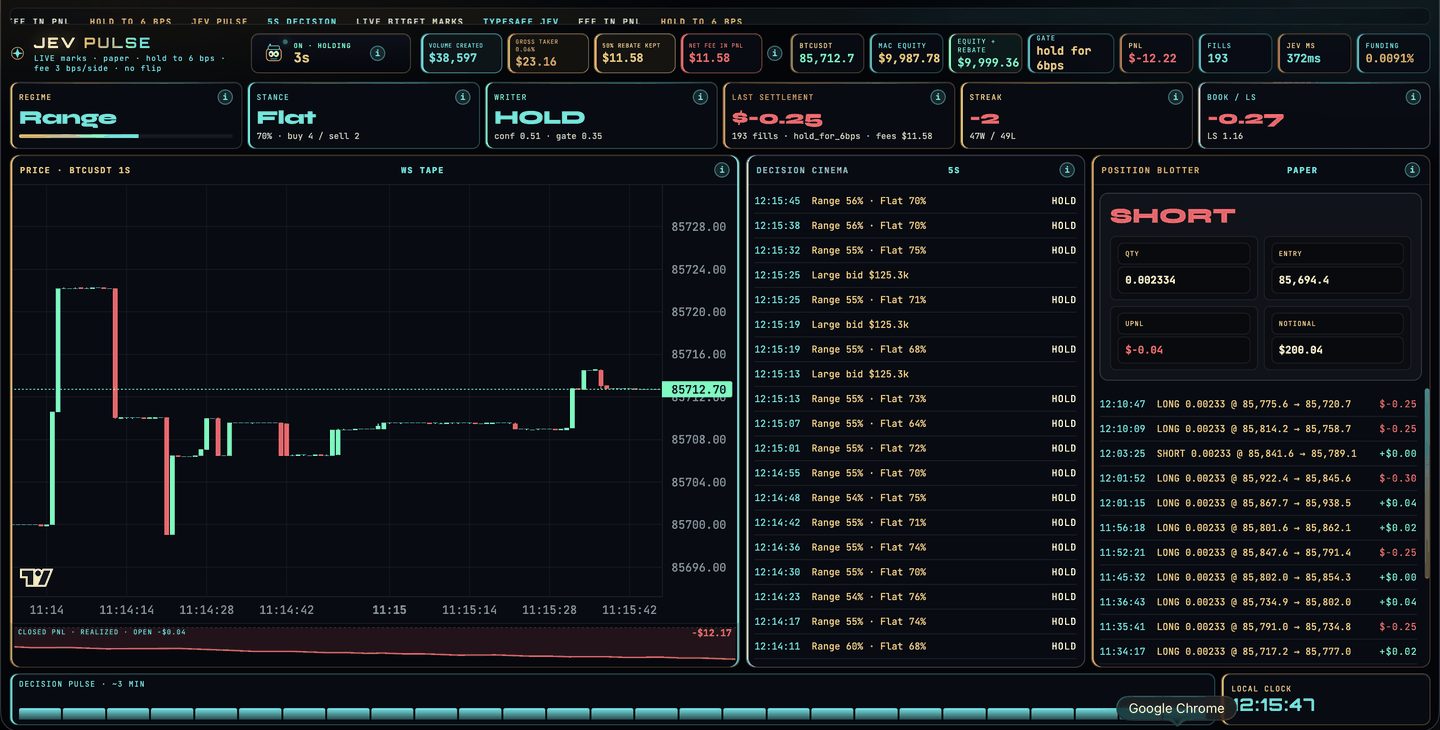
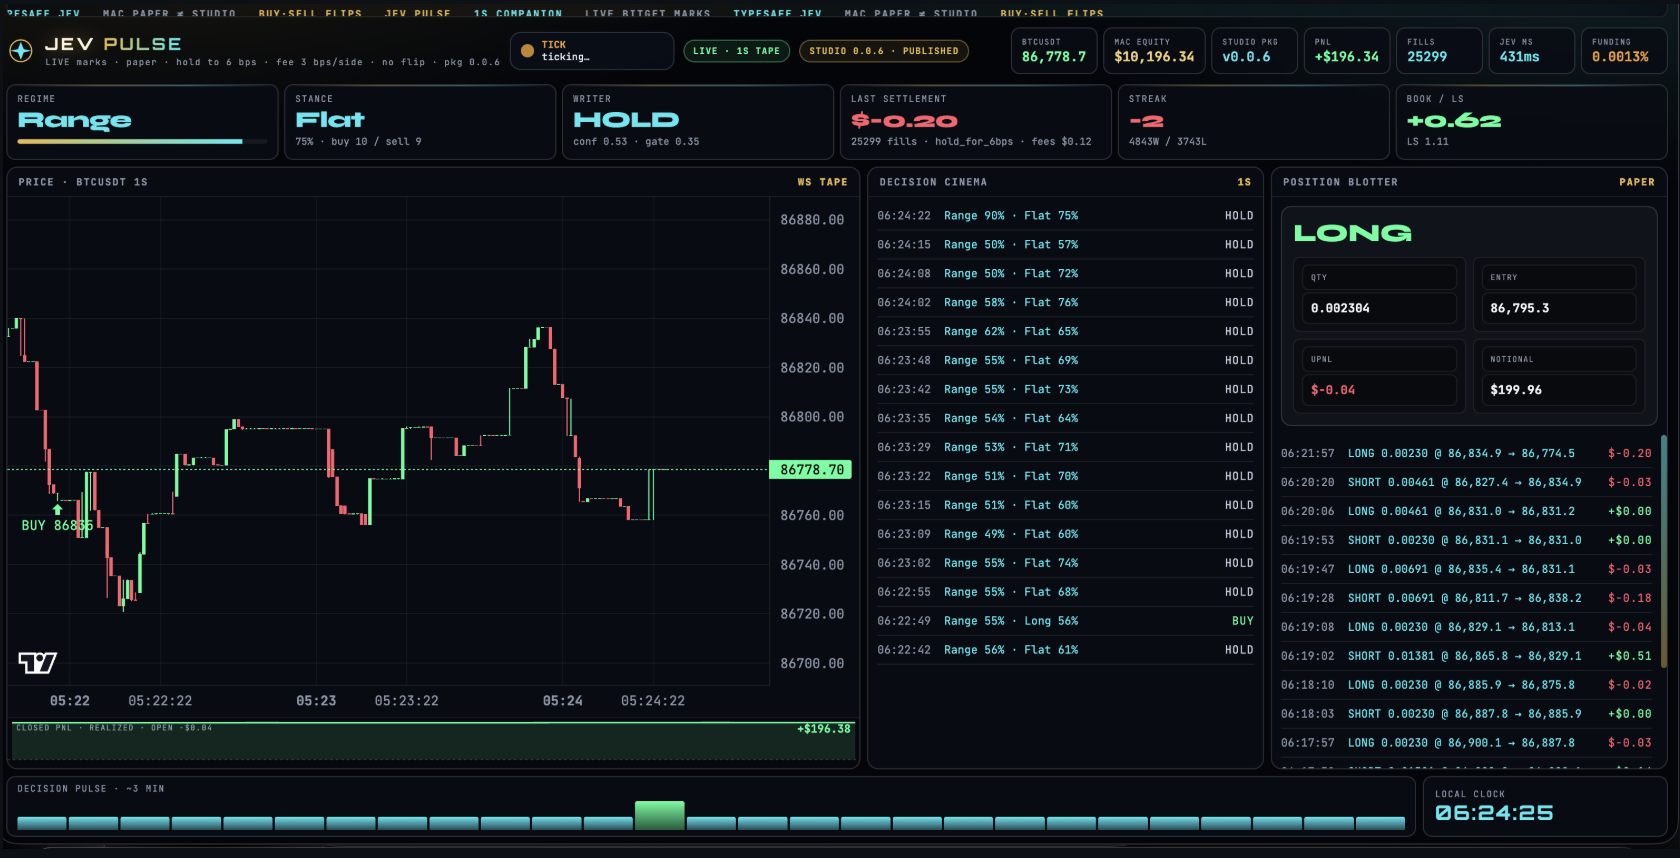
README: use the real v1 dashboard screenshot from before the rebuild

diff --git a/README.md b/README.md
@@ -64,11 +64,11 @@ This is less than an hour of data, and v3 is not profitable. No take-profit has 
 
 Each screenshot shows real paper data from the engine and its logs, in the order the dashboard was built. Times are UTC.
 
-### 1. v1 · the original desk (24 Sep 2026)
+### 1. v1 · the original desk (run 1, before the rebuild)
 
-![v1: the original Jev Pulse desk, early in run 1](docs/screenshots/01-v1-original-dashboard.png)
+![v1: the original Jev Pulse desk, late in run 1](docs/screenshots/01-v1-original-dashboard.png)
 
-The starting point, early in run 1 (193 fills, −$12.22): live 1 s candles, Jev's decisions and a row of fee tiles. Its "Equity + rebate" tile counted the rebate twice; v2 fixed that.
+The original desk as it looked late in run 1, right before we rebuilt it: 1 s candles, Jev's decision feed, the position blotter and a row of headline tiles. Its header P&L read +$196.34, which did not reflect fees correctly (the rebate was being counted twice). With fees counted properly, run 1 was −$190.35 net, which is what v2 shows.
 
 ### 2. v2 · fee waterfall and equity curve (26 Sep 2026, 10:22 UTC)
 
